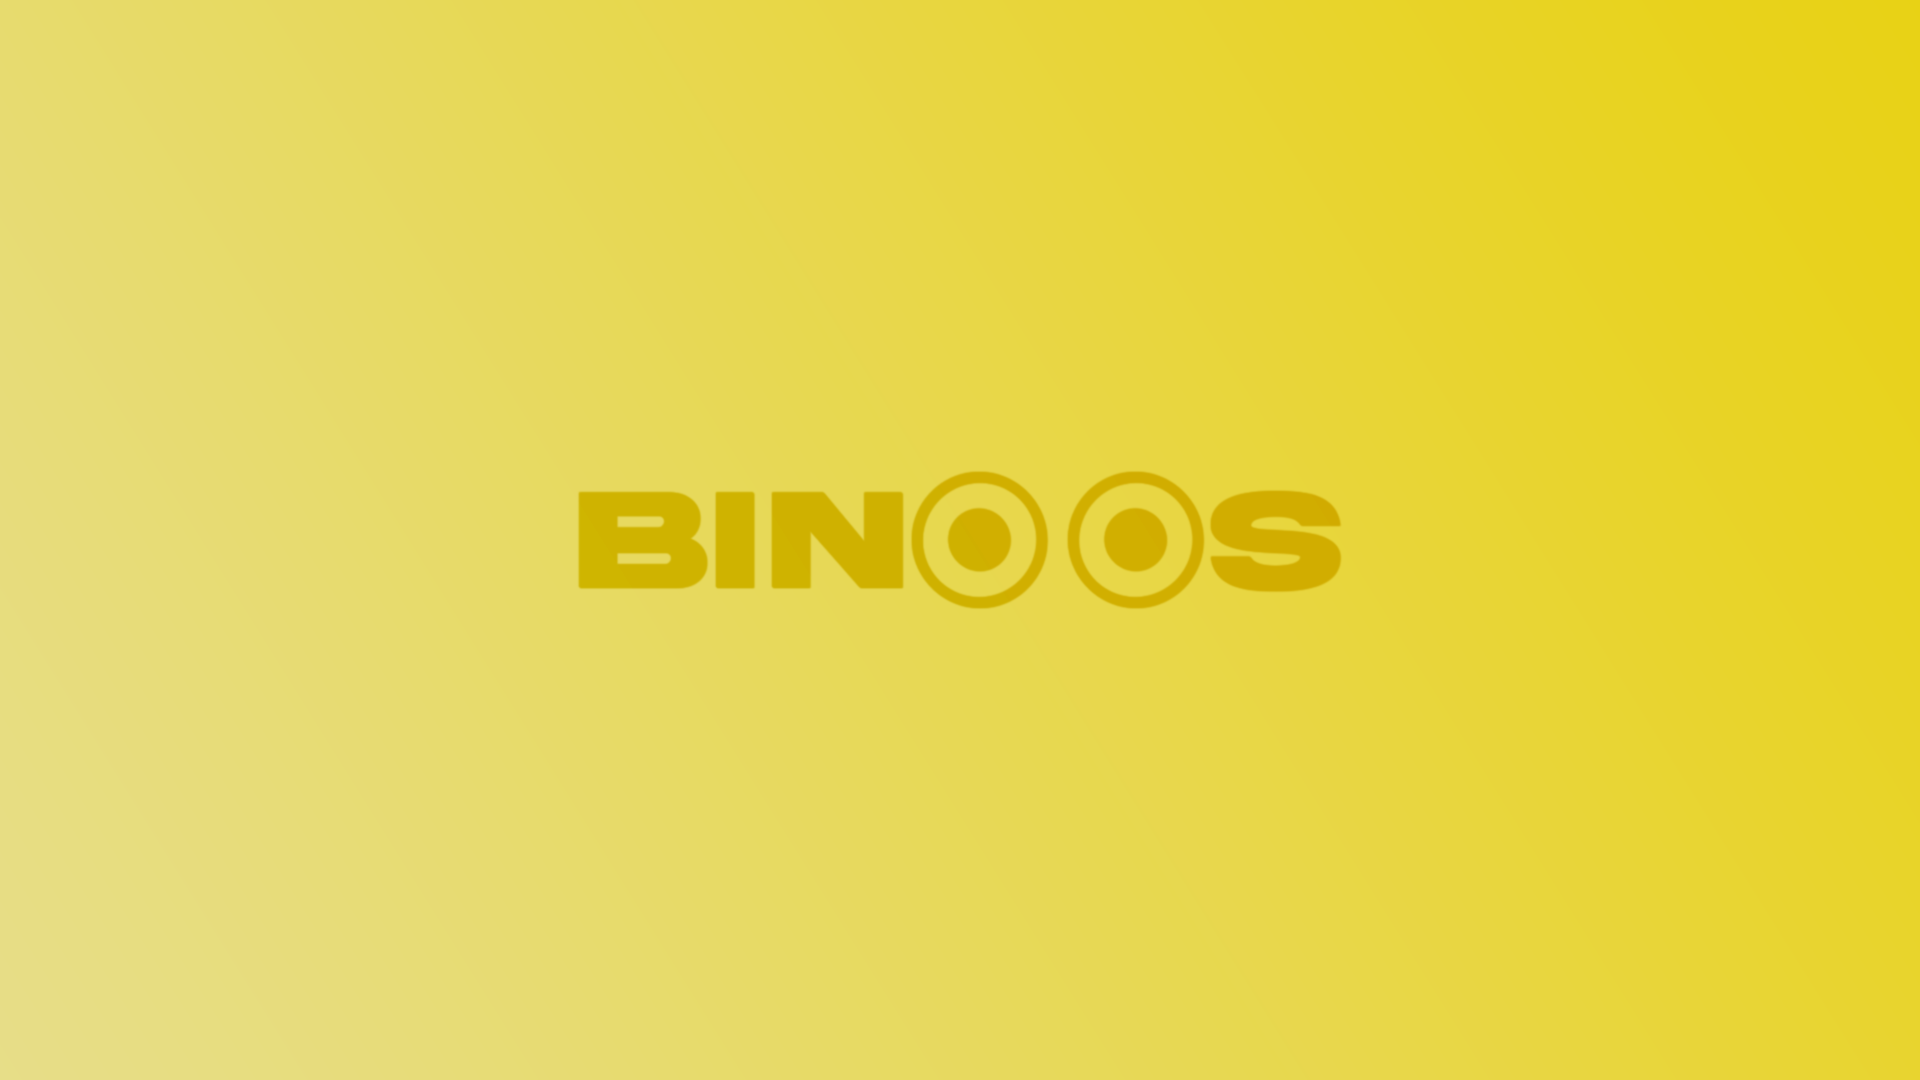
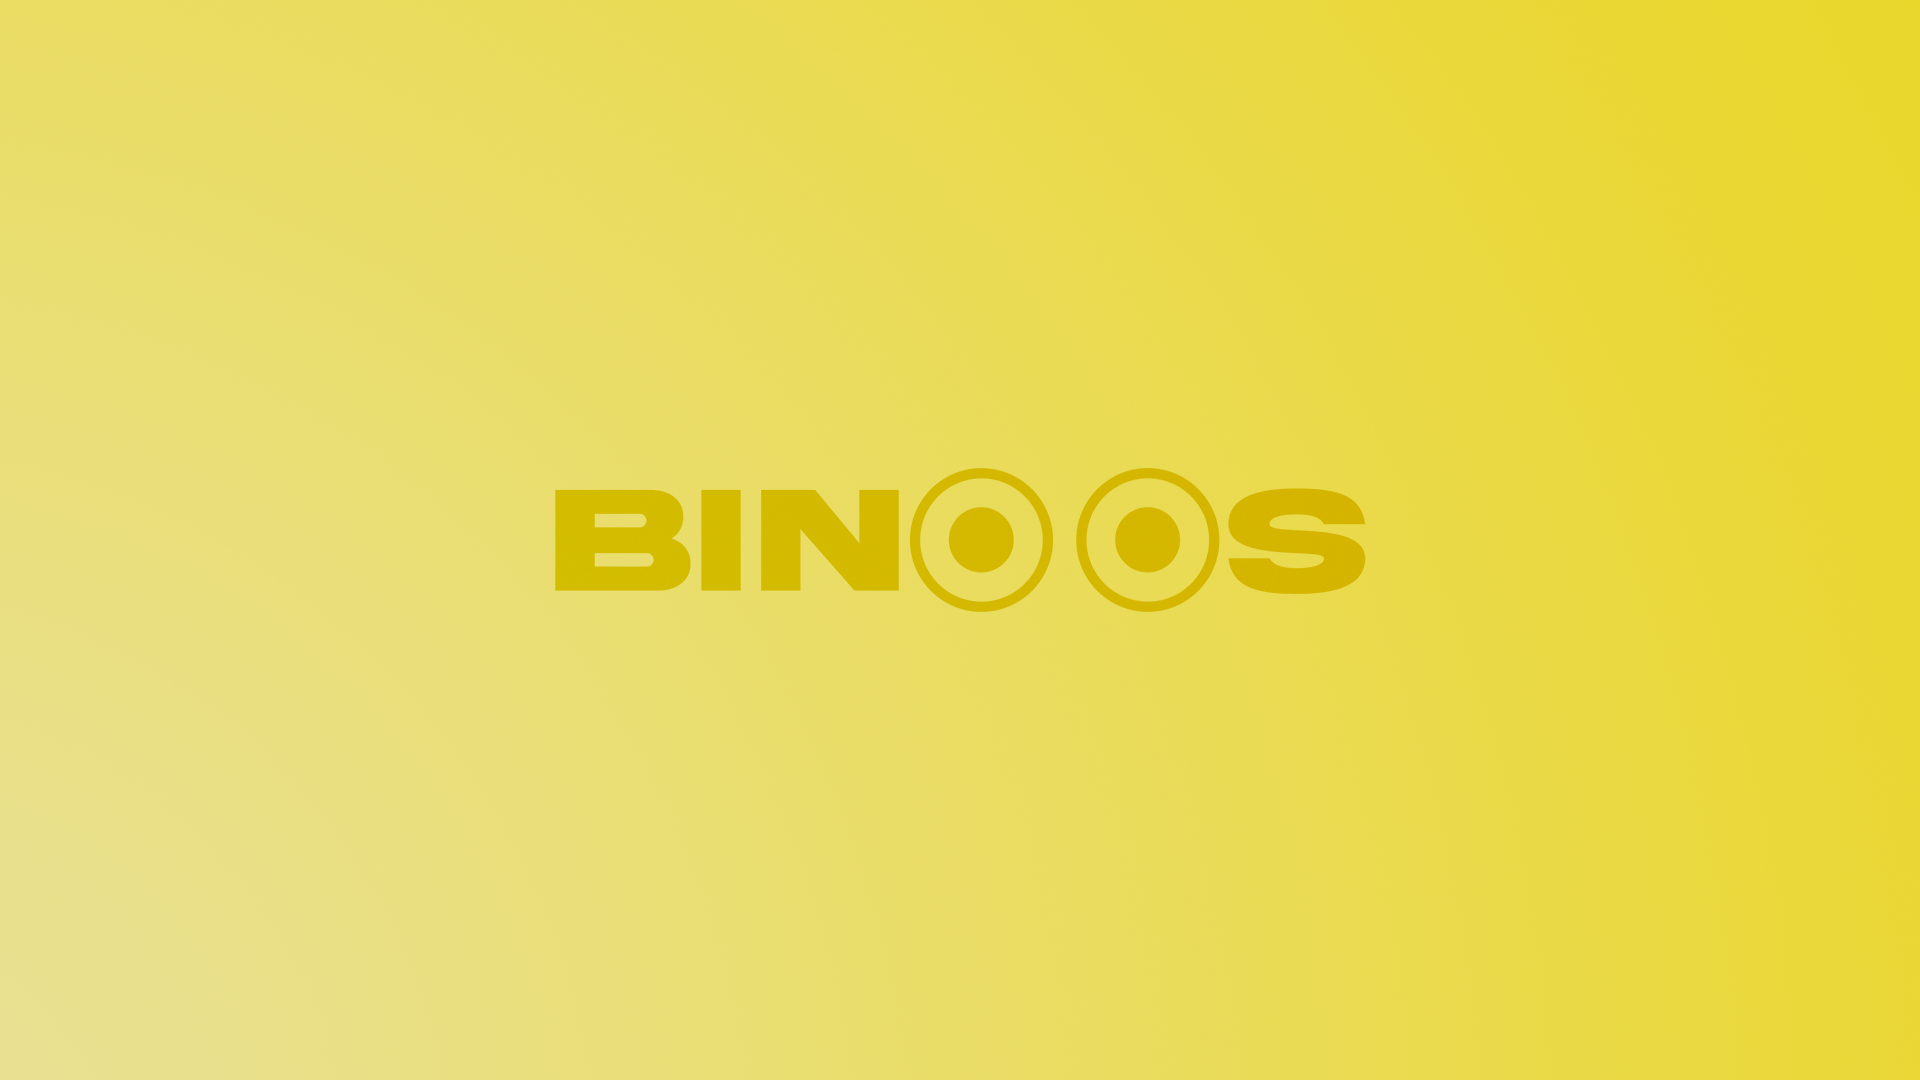
bruh -_-

Changed region(s): [[0.2812, 0.4278, 0.7188, 0.5806]]

diff --git a/BINO OS/bruh.html b/BINO OS/bruh.html
@@ -10,6 +10,15 @@
     <link rel="stylesheet" href="globals.css" />
     <link rel="stylesheet" href="styleguide.css" />
     <link rel="stylesheet" href="style.css" />
+    <style type="text/css"> 
+    * {
+		cursor: url(img/image.cur), auto !important;
+		image-rendering: auto;
+		image-rendering: crisp-edges;
+		image-rendering: pixelated;
+	}
+    </style>
+
 </head>
 
 <body>
@@ -187,10 +196,10 @@
                     <div class="item">Favorites</div>
                     <div class="item">Tools</div>
                     <div class="item">Help</div>
-                    <div class="item float-right"><img
+                  <!--  <div class="item float-right"><img
[1 lines of base64/hex data omitted]
-                            alt="" /></div>
-                </div>
+                            alt="" /></div> -->
+                </div> 
                 <div class="options padding">
                     <div class="item">Address</div>
                     <input type="text" class="inverse-windows-box-shadow" value="https://www.googly.com" />
@@ -659,7 +668,32 @@
                                 style="margin: 0 0.5rem 0 0;" alt="" /> Desligar</label></li>
                 </ul>
             </div>
-            <div id="time-options"></div>
+         <!-- <div id="time-options"></div> -->
+                <div id="time-options">  <script>
+                    function showTime() {
+                        var date = new Date();
+                        var hours = date.getHours();
+                        var minutes = date.getMinutes();
+            
+                        // Add leading zero if the value is less than 10
+                        hours = (hours < 10) ? "0" + hours : hours;
+                        minutes = (minutes < 10) ? "0" + minutes : minutes;
+            
+                        var timeString = hours + ":" + minutes;
+            
+                        // Display the time in the element with id "clock"
+                        document.getElementById("clock").innerHTML = timeString;
+            
+                        // Update the time every 1 second (1000 milliseconds)
+                        setTimeout(showTime, 1000);
+                    }
+            
+                    // Call the function to display the time when the page loads
+                    window.onload = showTime;
+                </script>
+            <div id="clock"></div>
+            
+            </div>
         </div>
     </form>
 </body>

diff --git a/BINO OS/bruh.css b/BINO OS/bruh.css
@@ -1,11 +1,12 @@
 body {
-    background-image: url(img/bino\ drip\ wide.png);
+    background-image: url(img/wallpaper\ bino.png);
 
     background-repeat: no-repeat;
     background-attachment: fixed;
     background-size: cover;
+    background-position: center;
 
-
+    
     margin: 0;
     padding: 0;
     font-family: Arial, sans-serif;
@@ -145,15 +146,15 @@ body {
 }
 #time-options {
     box-shadow: 0 2px white, 0 -2px #7d7d7d, -2px -2px #7d7d7d, 2px 2px white, -2px 2px #7d7d7d, 2px -2px white;
-    width: 5rem;
+    width: 3.5rem;
     display: flex;
     align-items: center;
     justify-content: center;
 }
 
-#time-options:after {
+/*#time-options:after {
     content: '04:20 AM';
-}
+}*/
 #start-button:active {    
     box-shadow: -2px -2px #818181, -2px 0 #818181, 0 -2px #818181, -4px -4px black, -4px 0 black, 0 -4px black, 2px 2px #e0dede, 0 2px #e0dede, 2px 0 #e0dede,  2px -2px #818181, -2px 2px #e0dede, -4px 2px black, -4px 4px white, 4px 4px white, 4px 0 white, 0 4px white, 2px -4px black, 4px -4px white;
 }
@@ -580,9 +581,9 @@ iframe {
 #update-input:checked ~ #start-bar #start-menu .update {
     display: none;
 }
-#update-input:checked ~ #start-bar #time-options:after {
+/*#update-input:checked ~ #start-bar #time-options:after {
     content: '4:20 PM'
-}
+}*/
 #update-input:checked ~ #background {
     background-color: black;
     background-repeat: no-repeat;

diff --git a/BINO OS/googly/index.html b/BINO OS/googly/index.html
@@ -5,6 +5,7 @@
     <link rel="stylesheet" href="globals.css" />
     <link rel="stylesheet" href="styleguide.css" />
     <link rel="stylesheet" href="style.css" />
+    
   </head>
   <body>
     <div class="googly">
